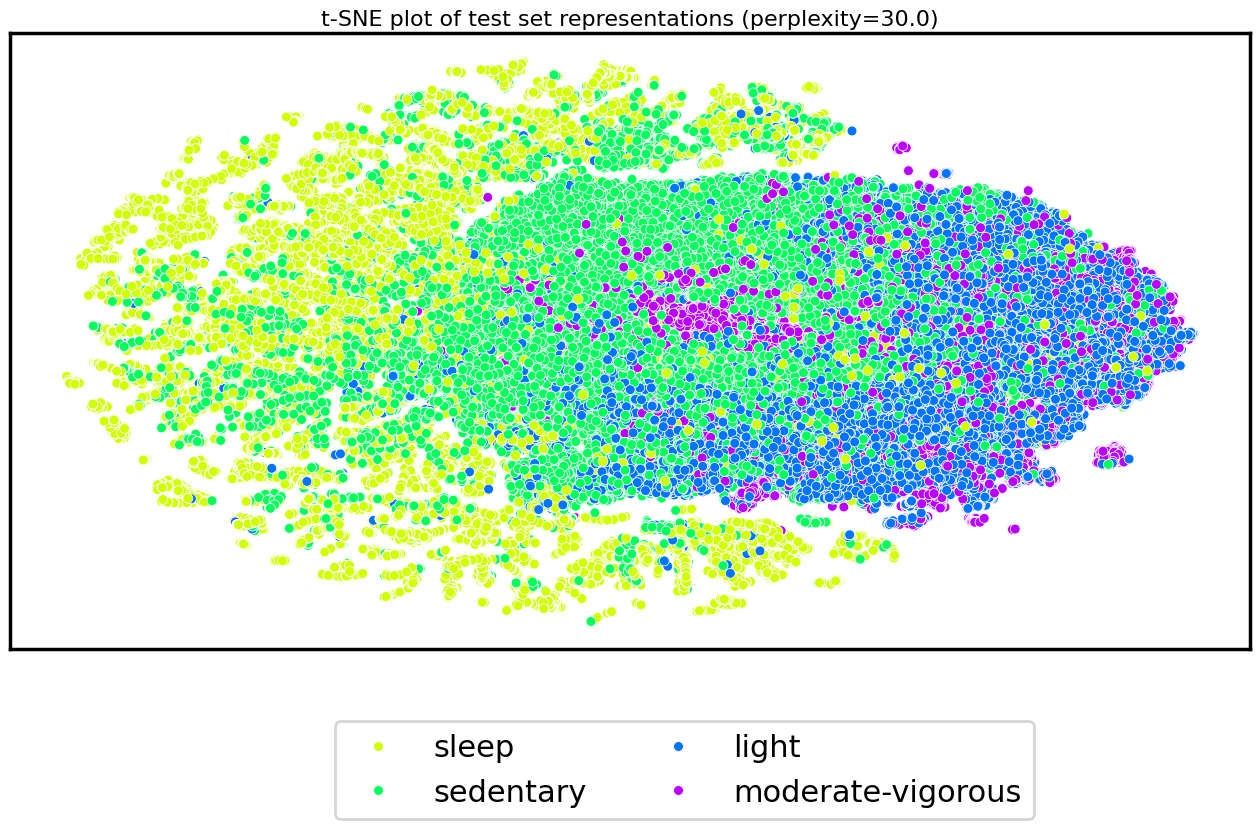
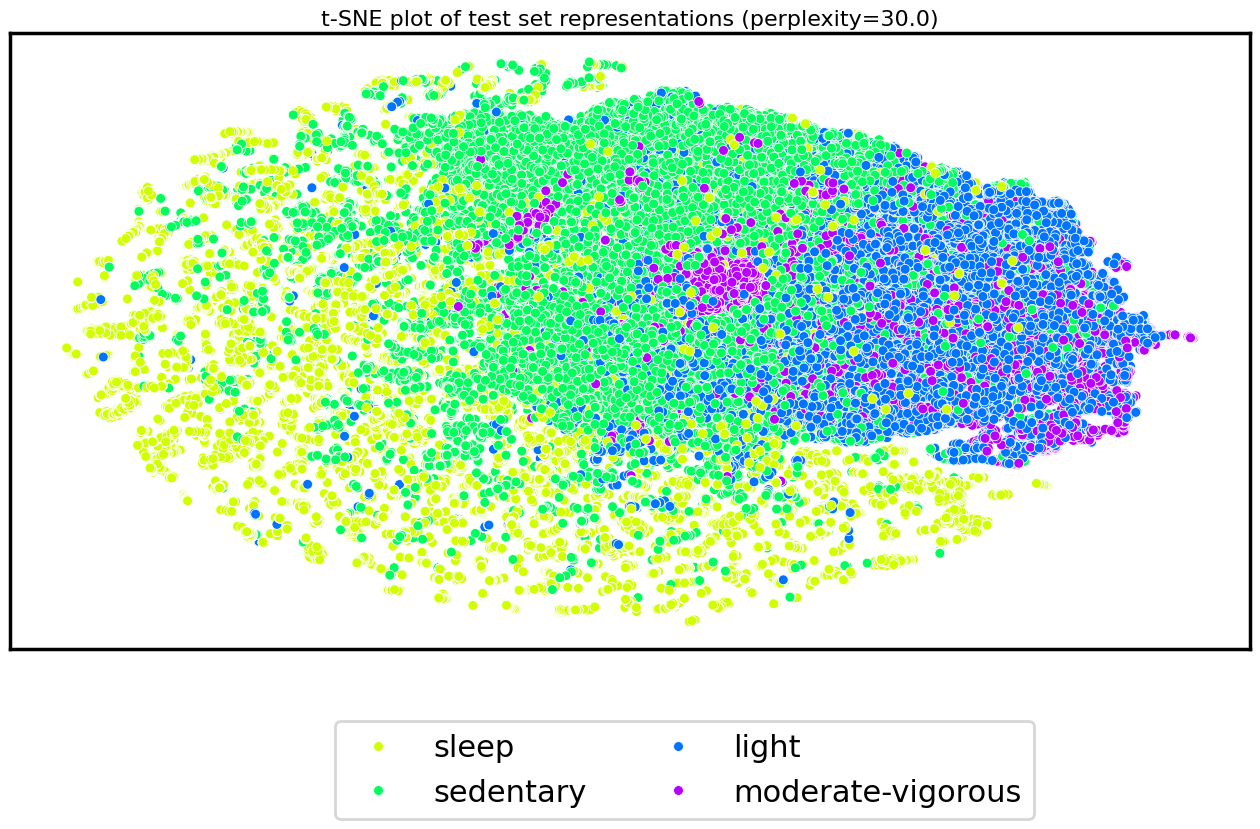
res

diff --git a/SimCLR_CAPTURE24_R.py b/SimCLR_CAPTURE24_R.py
@@ -147,7 +147,7 @@ batch_size = 2048
 decay_steps = 100000
 
 epochs = 400
-temperature = 0.07
+temperature = 0.05
 
 transform_funcs = [
     # transformations.scaling_transform_vectorized, # Use Scaling trasnformation
@@ -177,7 +177,7 @@ start_time = datetime.datetime.now()
 start_time_str = start_time.strftime("%Y%m%d-%H%M%S")
 tf.keras.backend.set_floatx('float32')
 
-lr_decayed_fn = tf.keras.optimizers.schedules.CosineDecay(initial_learning_rate=0.4, decay_steps=decay_steps)
+lr_decayed_fn = tf.keras.optimizers.schedules.CosineDecay(initial_learning_rate=0.1, decay_steps=decay_steps)
 optimizer = tf.keras.optimizers.SGD(lr_decayed_fn)
 # transformation_function = simclr_utitlities.generate_combined_transform_function(trasnform_funcs_vectorized, indices=trasnformation_indices)
 